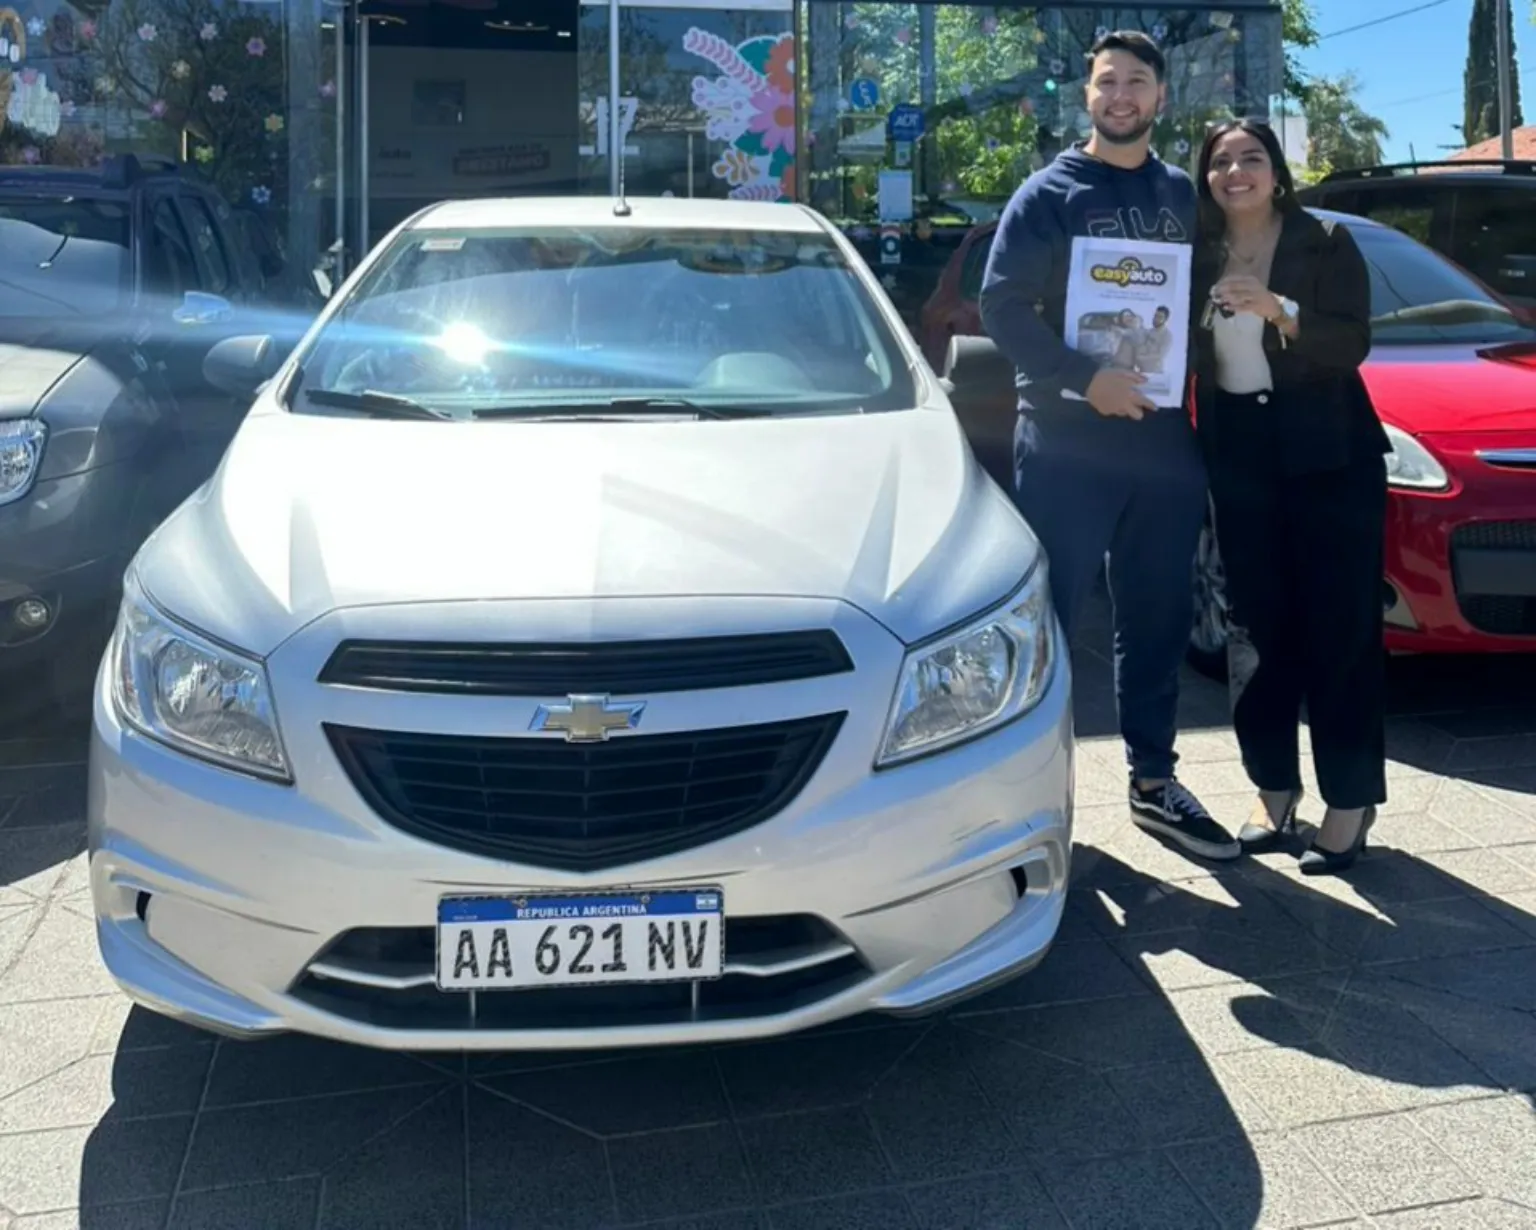
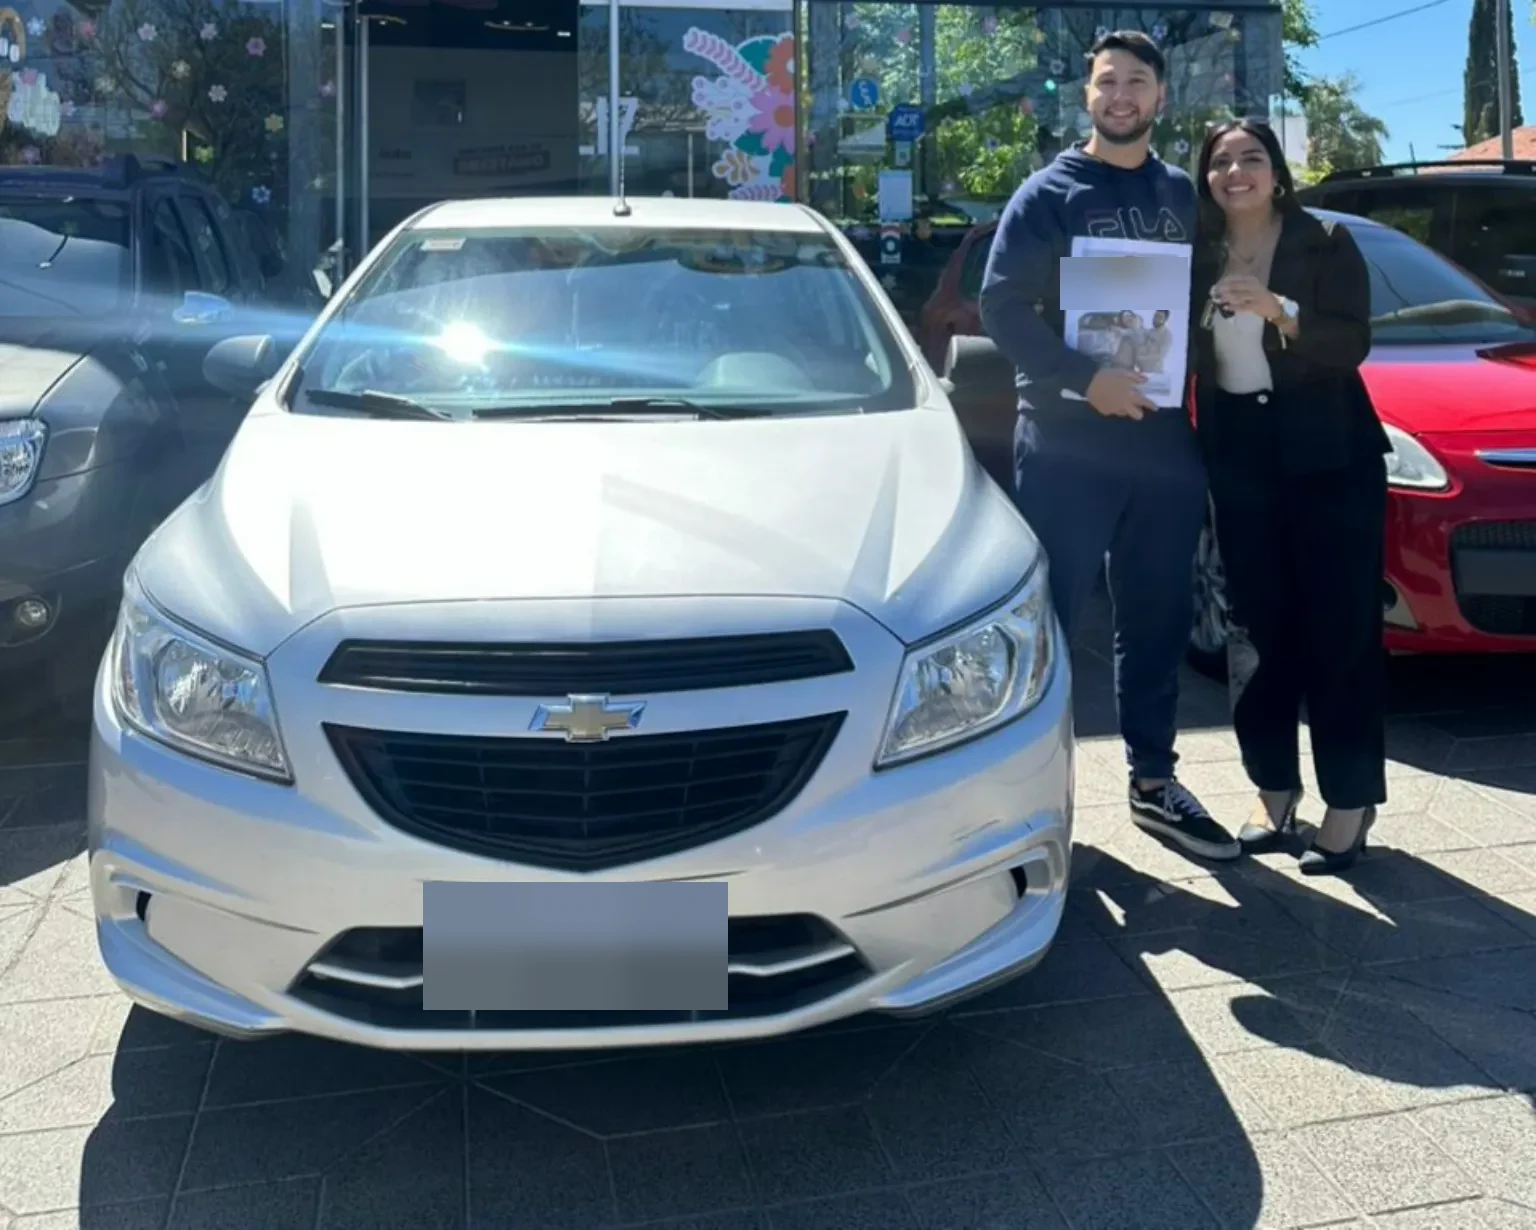
Difumina patentes y marcas visibles en la galería

Changed region(s): [[0.25, 0.7106, 0.5, 0.8341], [0.6875, 0.1854, 0.7812, 0.278]]

diff --git a/luciano-raab/index.html b/luciano-raab/index.html
@@ -28,15 +28,15 @@
 <section class="media" aria-labelledby="galeria-titulo">
 <h2 id="galeria-titulo">Grupo RAAB en imágenes</h2>
 <div class="gallery" id="galeria-fotos">
-  <img src="chevrolet-easyauto.webp" alt="Luciano Raab recibe las llaves junto a un Chevrolet plateado frente a Easyauto" loading="lazy" decoding="async">
+  <img src="chevrolet-easyauto.webp" alt="Luciano Raab recibe las llaves junto a un Chevrolet plateado frente a una concesionaria" loading="lazy" decoding="async">
   <img src="flota-nocturna.webp" alt="Vista panorámica de la flota de RR Motors de noche" loading="lazy" decoding="async">
   <img src="fiat-cronos.webp" alt="Luciano Raab y un acompañante entre dos Fiat Cronos con las luces encendidas" loading="lazy" decoding="async">
-  <img src="chevrolet-blanco.webp" alt="Luciano Raab junto a un Chevrolet blanco frente a Easyauto" loading="lazy" decoding="async">
+  <img src="chevrolet-blanco.webp" alt="Luciano Raab junto a un Chevrolet blanco frente a una concesionaria" loading="lazy" decoding="async">
   <img src="indumentaria-rr.webp" alt="Luciano Raab y un compañero muestran sus remeras con el logo RR" loading="lazy" decoding="async">
   <img src="encuentro-rr.webp" alt="Luciano Raab en un retrato grupal bajo techo" loading="lazy" decoding="async">
   <img src="luciano-raab-flota.webp" alt="Luciano Raab junto a un vehículo con la indumentaria de Grupo RAAB" loading="lazy" decoding="async">
   <img src="luciano-raab-operaciones.webp" alt="Luciano Raab trabajando sobre el parabrisas de un vehículo" loading="lazy" decoding="async">
-  <img src="equipo-easyauto.webp" alt="Integrantes de Grupo RAAB junto a un Fiat frente a Easyauto" loading="lazy" decoding="async">
+  <img src="equipo-easyauto.webp" alt="Integrantes de Grupo RAAB junto a un Fiat frente a una concesionaria" loading="lazy" decoding="async">
   <img src="luciano-nissan-versa.webp" alt="Luciano Raab sentado sobre el capó de un Nissan Versa blanco" loading="lazy" decoding="async">
 </div>
 <div class="gallery-controls" hidden>
